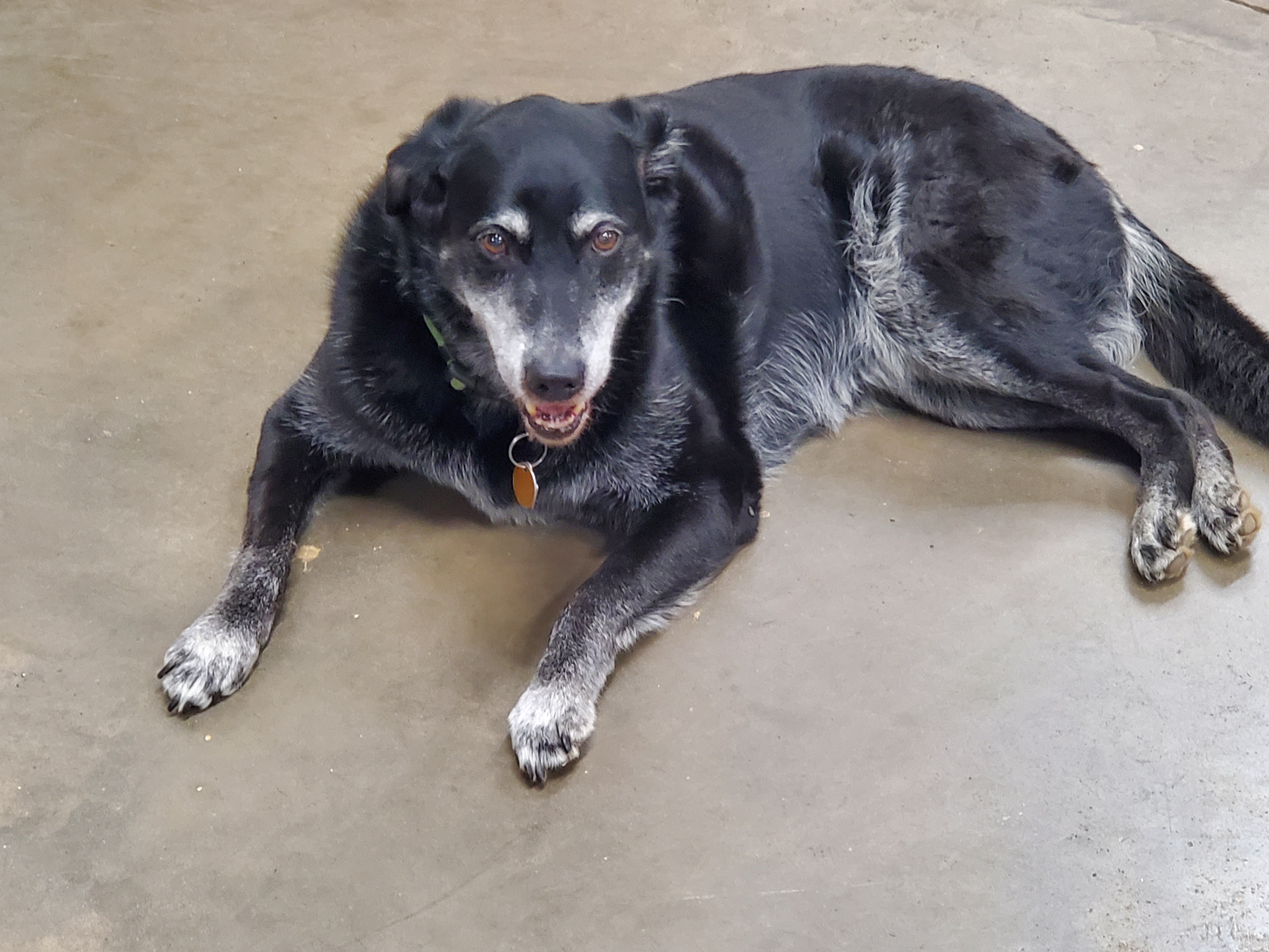
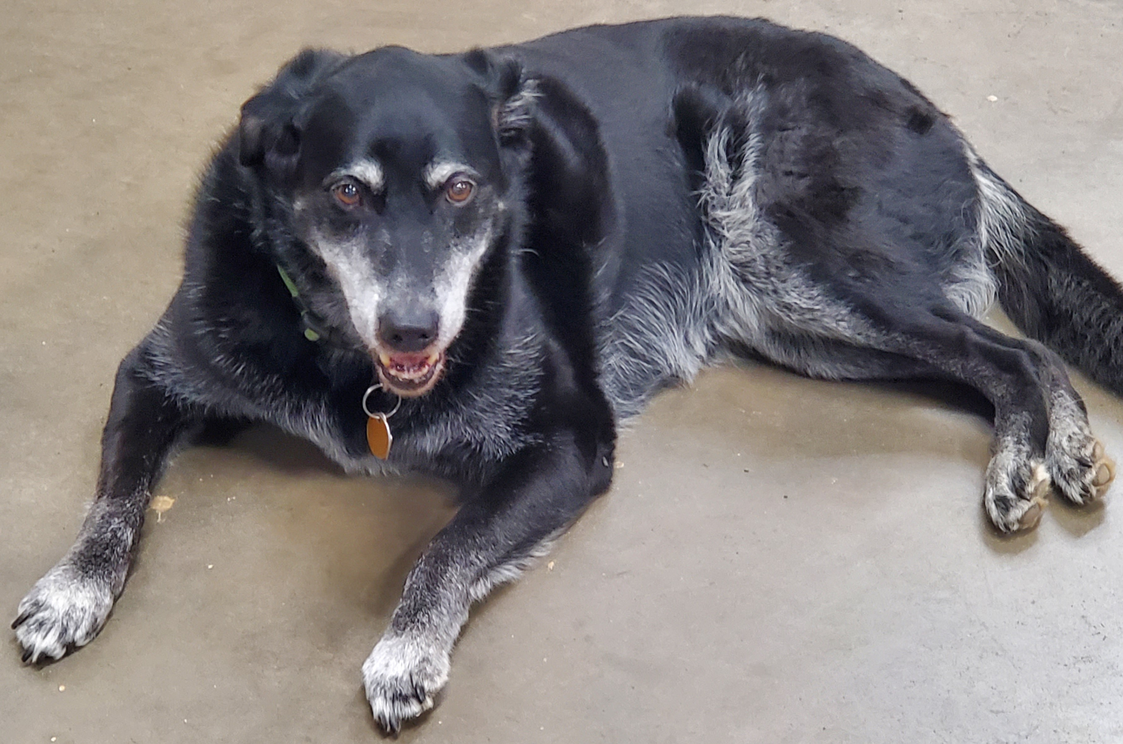
Contact Us Finishing
Added Daisy

diff --git a/contact.html b/contact.html
@@ -4,7 +4,7 @@
     <meta charset="UTF-8">
     <meta http-equiv="X-UA-Compatible" content="IE=edge">
     <meta name="viewport" content="width=device-width, initial-scale=1.0">
-    <title>Services</title>
+    <title>Contact Us</title>
     <link rel="stylesheet" href="contact.css"/>
     <link rel="stylesheet" href="global.css"/>
 </head>
@@ -64,6 +64,10 @@
         <p>Feel free to call us, send us an email, or show up during open hours and ask us questions. Otherwise,
             go <a href="ask.html">here</a> and send us a question about your car.
         </p>
+    </div>
+
+    <div class="daisy">
+        <img src="images/daisy.jpg" alt="Daisy, the shop dog.">
     </div>
 
 

diff --git a/about.html b/about.html
@@ -45,7 +45,7 @@
 
     
     <div class="container">
-        <img src="images/oldshop.jpg">
+        <img src="images/oldshop.jpg" alt="Picture of the old location of Hallis Auto Repair">
     </div>
     <div class="footer">
         <p>Copyright &copy; 2021 Hallis Auto Repair</p>

diff --git a/contact.css b/contact.css
@@ -32,3 +32,12 @@ p{
     font-weight: bold;
     text-align: center;
 }
+.daisy{
+    width: 45%;
+    border-radius: 5px;
+    margin-left: 15%;
+}
+img{
+    width: 100%;
+    border-radius: 5px;
+}
